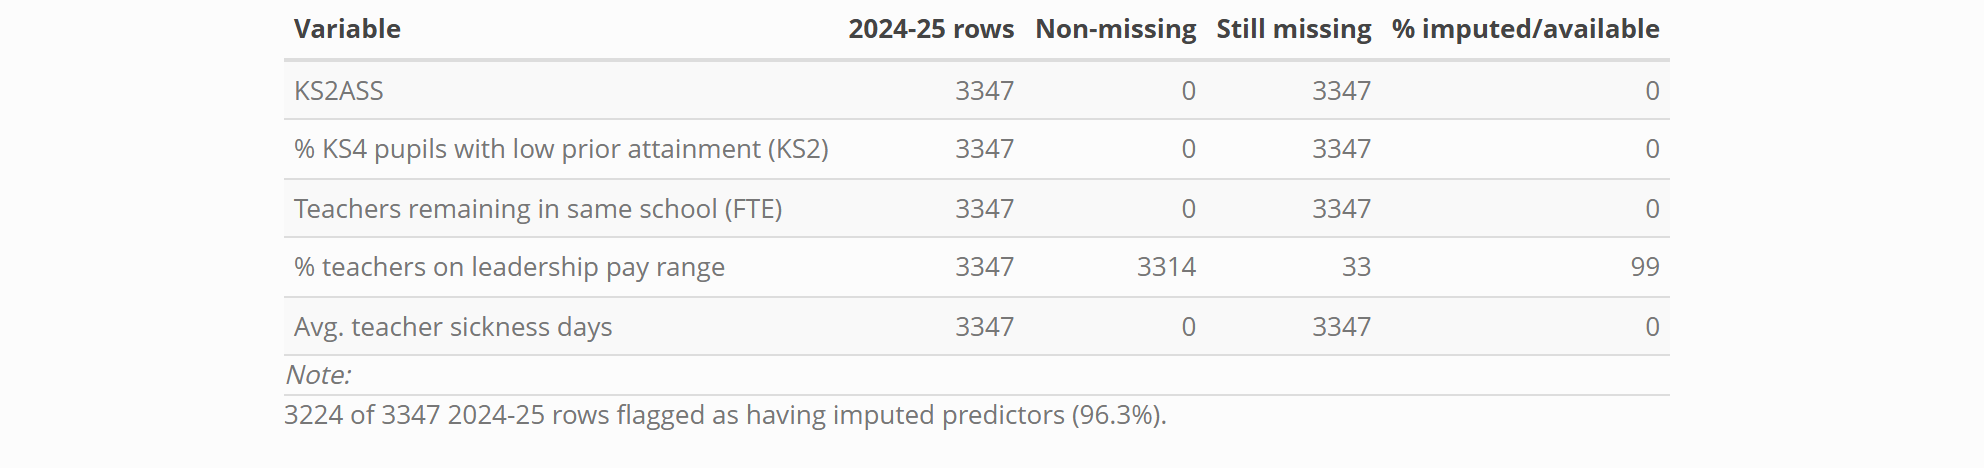
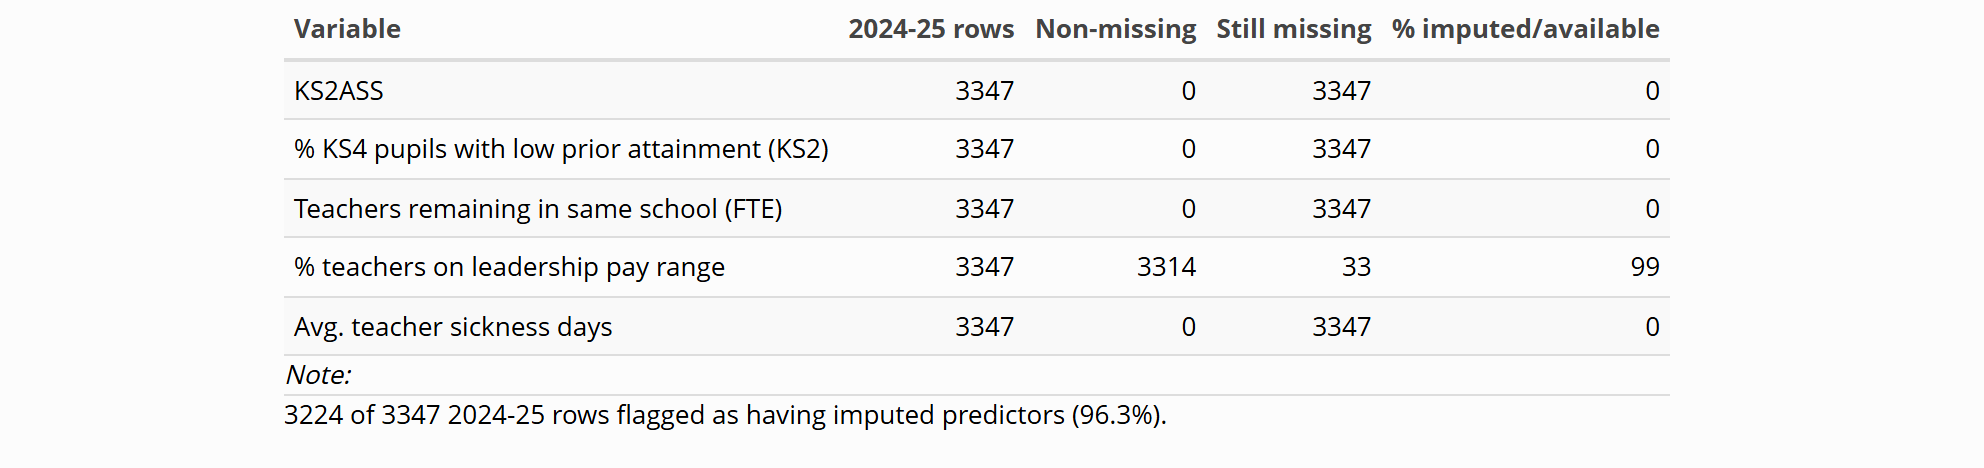
Regenerate data-overview tables
Re-runs the save_tbl() outputs from output/data_overview.qmd. The only
content change in the HTML is an explicit "color: black" in the inline
table style, emitted by the installed kableExtra version; the table
markup and values are otherwise byte-identical. The PNGs are re-rendered
to match.

diff --git a/output/tables/data_completeness.html b/output/tables/data_completeness.html
@@ -280,7 +280,7 @@ border: 0;
 
 </head>
 <body>
-<table class="table table-striped table-hover table-condensed" style="font-size: 11px; width: auto !important; margin-left: auto; margin-right: auto;">
+<table class="table table-striped table-hover table-condensed" style="font-size: 11px; color: black; width: auto !important; margin-left: auto; margin-right: auto;">
  <thead>
   <tr>
    <th style="text-align:left;"> Variable </th>

diff --git a/output/tables/imputation_summary.html b/output/tables/imputation_summary.html
@@ -280,7 +280,7 @@ border: 0;
 
 </head>
 <body>
-<table class="table table-striped table-hover table-condensed" style="width: auto !important; margin-left: auto; margin-right: auto;border-bottom: 0;">
+<table class="table table-striped table-hover table-condensed" style="color: black; width: auto !important; margin-left: auto; margin-right: auto;border-bottom: 0;">
  <thead>
   <tr>
    <th style="text-align:left;"> Variable </th>

diff --git a/output/tables/outcome_statistics.html b/output/tables/outcome_statistics.html
@@ -280,7 +280,7 @@ border: 0;
 
 </head>
 <body>
-<table class="table table-striped table-hover table-condensed" style="font-size: 11px; width: auto !important; margin-left: auto; margin-right: auto;">
+<table class="table table-striped table-hover table-condensed" style="font-size: 11px; color: black; width: auto !important; margin-left: auto; margin-right: auto;">
  <thead>
   <tr>
    <th style="text-align:left;"> Variable </th>

diff --git a/output/tables/predictor_statistics.html b/output/tables/predictor_statistics.html
@@ -280,7 +280,7 @@ border: 0;
 
 </head>
 <body>
-<table class="table table-striped table-hover table-condensed" style="font-size: 11px; width: auto !important; margin-left: auto; margin-right: auto;">
+<table class="table table-striped table-hover table-condensed" style="font-size: 11px; color: black; width: auto !important; margin-left: auto; margin-right: auto;">
  <thead>
   <tr>
    <th style="text-align:left;"> Variable </th>

diff --git a/output/tables/variable_definitions.html b/output/tables/variable_definitions.html
@@ -280,7 +280,7 @@ border: 0;
 
 </head>
 <body>
-<table class="table table-striped table-hover table-condensed" style="font-size: 11px; width: auto !important; margin-left: auto; margin-right: auto;">
+<table class="table table-striped table-hover table-condensed" style="font-size: 11px; color: black; width: auto !important; margin-left: auto; margin-right: auto;">
  <thead>
   <tr>
    <th style="text-align:left;"> Variable </th>

diff --git a/output/tables/data_sources.html b/output/tables/data_sources.html
@@ -280,7 +280,7 @@ border: 0;
 
 </head>
 <body>
-<table class="table table-striped table-hover table-condensed" style="font-size: 11px; width: auto !important; margin-left: auto; margin-right: auto;">
+<table class="table table-striped table-hover table-condensed" style="font-size: 11px; color: black; width: auto !important; margin-left: auto; margin-right: auto;">
  <thead>
   <tr>
    <th style="text-align:left;"> Source </th>

diff --git a/output/tables/pipeline_steps.html b/output/tables/pipeline_steps.html
@@ -280,7 +280,7 @@ border: 0;
 
 </head>
 <body>
-<table class="table table-striped table-hover table-condensed" style="font-size: 10px; width: auto !important; margin-left: auto; margin-right: auto;">
+<table class="table table-striped table-hover table-condensed" style="font-size: 10px; color: black; width: auto !important; margin-left: auto; margin-right: auto;">
  <thead>
   <tr>
    <th style="text-align:center;"> Step </th>

diff --git a/output/tables/analysis_sample_dimensions.html b/output/tables/analysis_sample_dimensions.html
@@ -280,7 +280,7 @@ border: 0;
 
 </head>
 <body>
-<table class="table table-striped table-hover table-condensed" style="width: auto !important; margin-left: auto; margin-right: auto;">
+<table class="table table-striped table-hover table-condensed" style="color: black; width: auto !important; margin-left: auto; margin-right: auto;">
  <thead>
   <tr>
    <th style="text-align:left;"> Academic year </th>

diff --git a/output/tables/panel_dimensions.html b/output/tables/panel_dimensions.html
@@ -280,7 +280,7 @@ border: 0;
 
 </head>
 <body>
-<table class="table table-striped table-hover table-condensed" style="width: auto !important; margin-left: auto; margin-right: auto;">
+<table class="table table-striped table-hover table-condensed" style="color: black; width: auto !important; margin-left: auto; margin-right: auto;">
  <thead>
   <tr>
    <th style="text-align:left;"> Academic year </th>

diff --git a/output/tables/school_type_filter.html b/output/tables/school_type_filter.html
@@ -280,7 +280,7 @@ border: 0;
 
 </head>
 <body>
-<table class="table table-striped table-hover table-condensed" style="width: auto !important; margin-left: auto; margin-right: auto;">
+<table class="table table-striped table-hover table-condensed" style="color: black; width: auto !important; margin-left: auto; margin-right: auto;">
  <thead>
   <tr>
    <th style="text-align:left;"> School type </th>
